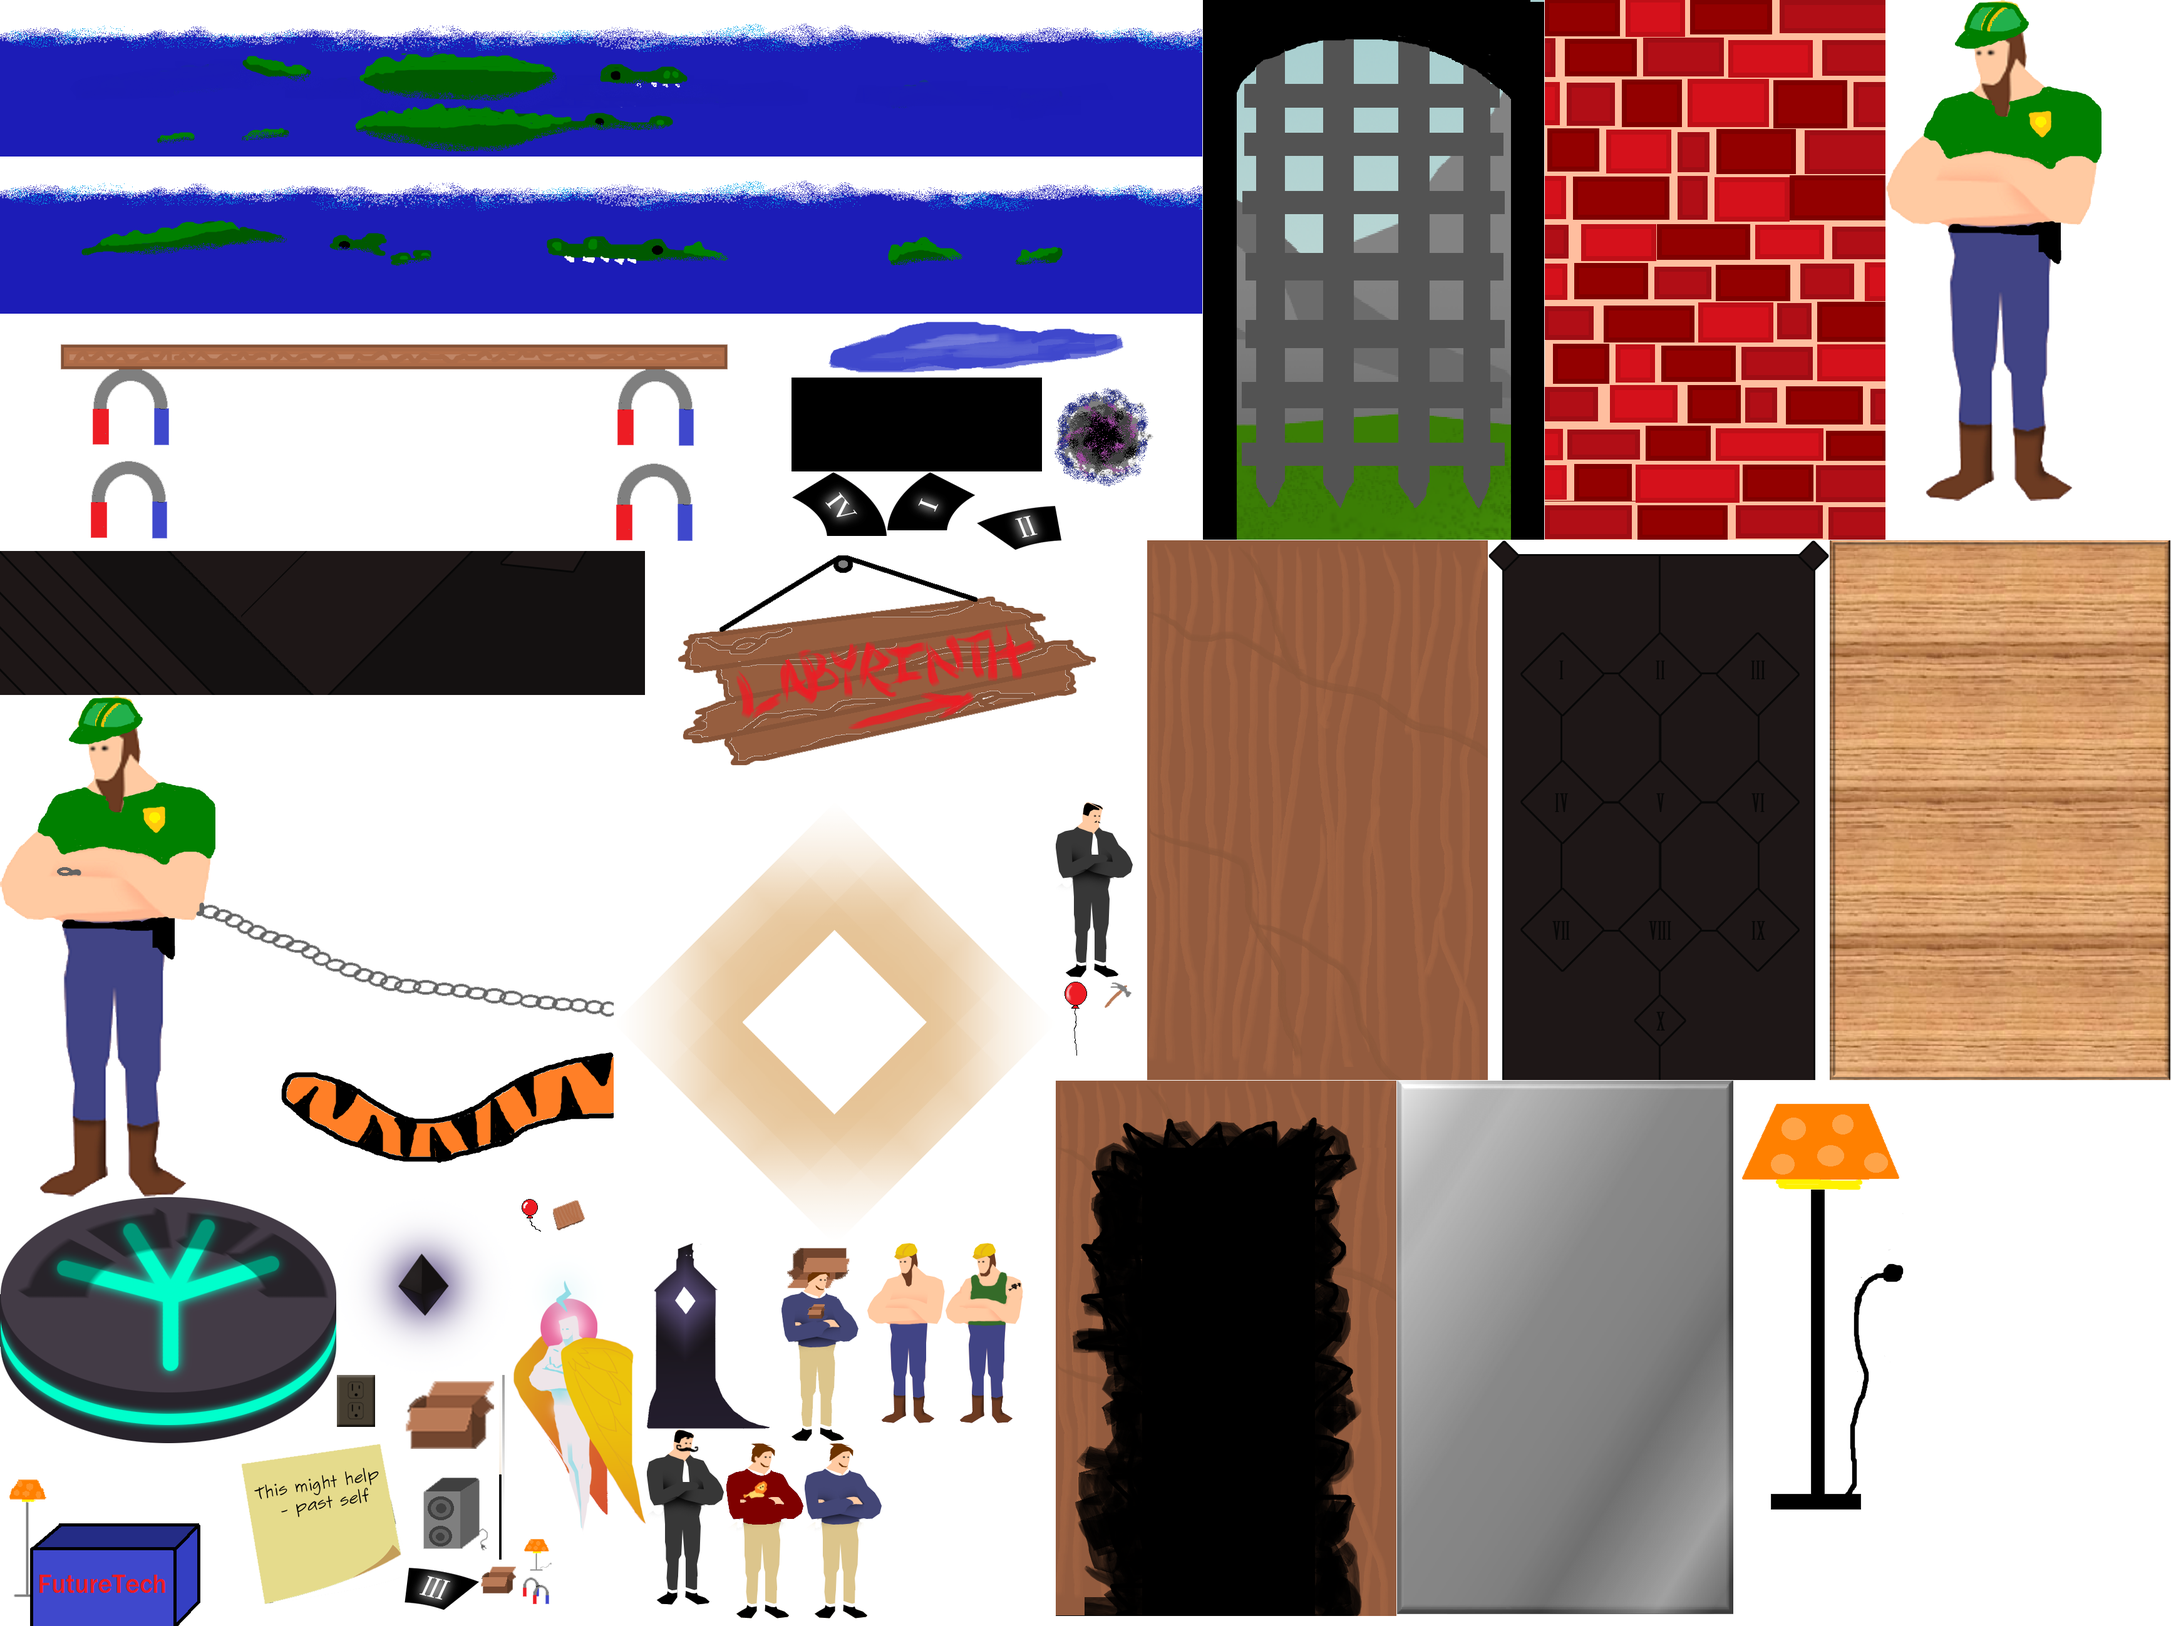
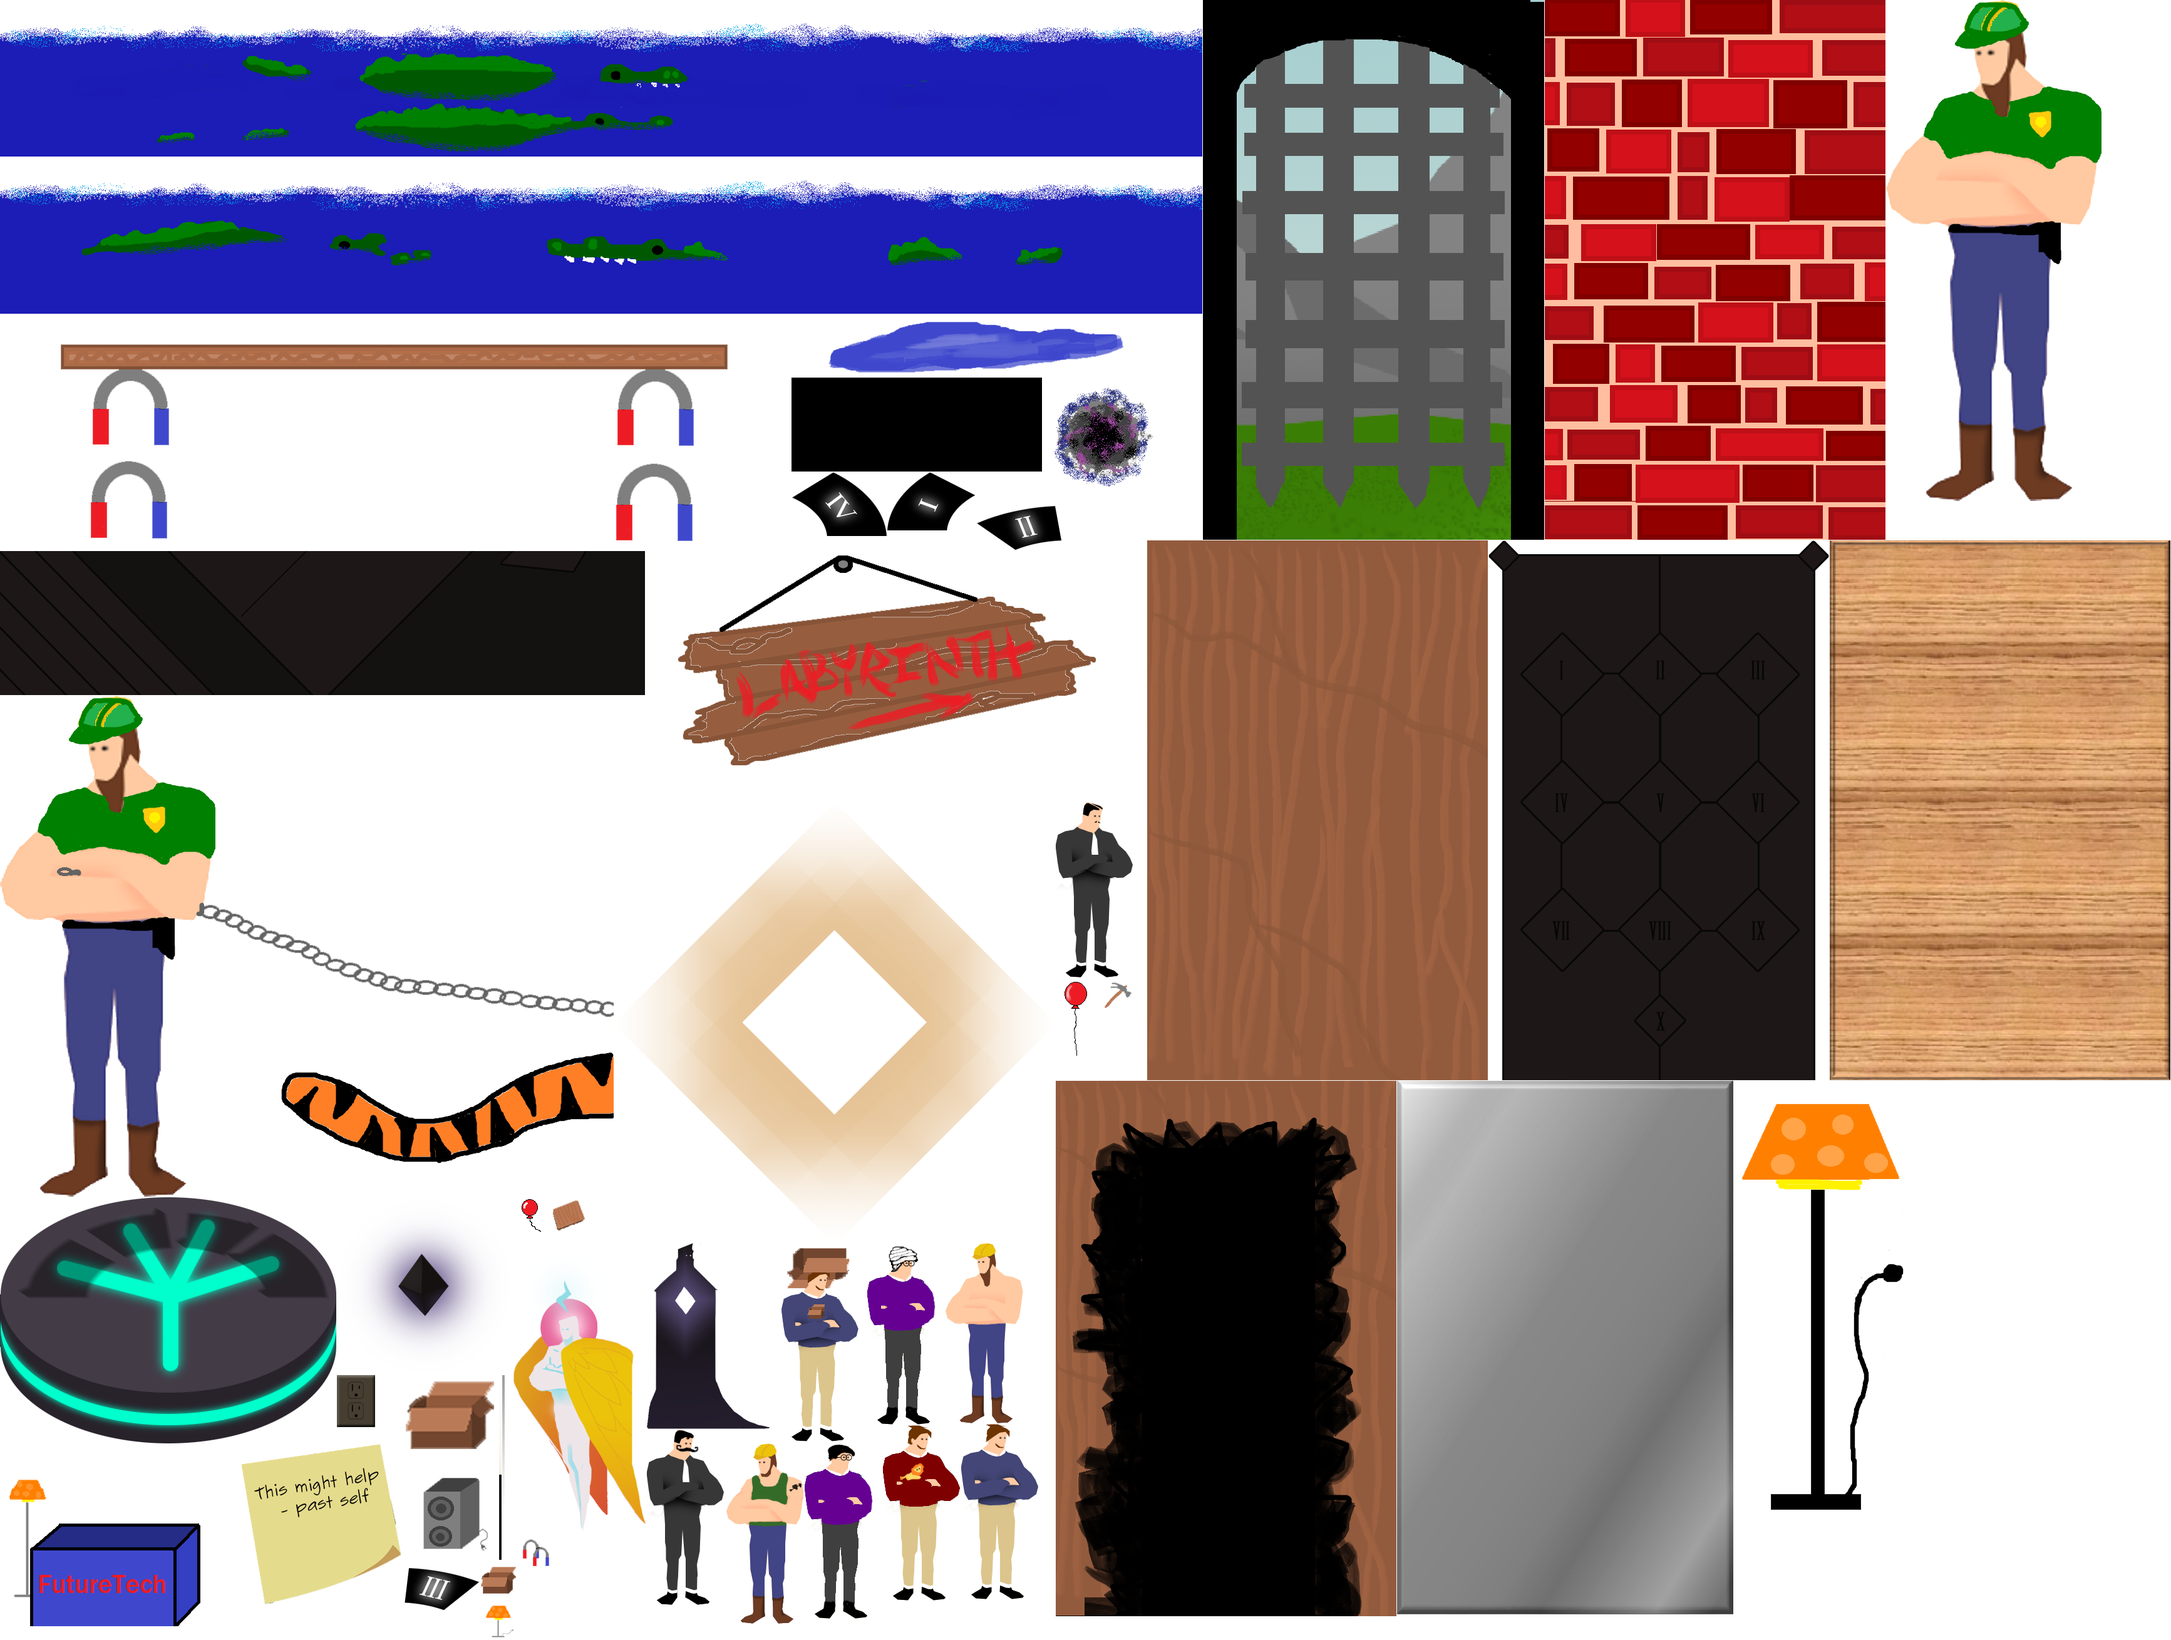
Added Wall guy's cousin, Peter.

diff --git a/index.bundle.js b/index.bundle.js
@@ -44781,7 +44781,7 @@ module.exports=//GRAVITY_LIGHTER
 		{
 			"id": 36,
 			"speaker": "johnson15",
-			"text": "I don't have the time to do both the door and the labyrinth. So, I was thinking I'd have my cousin do one for me.",
+			"text": "I don't have the time to do both the door and the labyrinth. So, I was thinking I'd have my cousin, Peter, do one for me.",
 			"responses":[
 				{
 					"text": "Your cousin?",
@@ -44811,12 +44811,12 @@ module.exports=//GRAVITY_LIGHTER
 			"text": "Any toddler could get through his systems.",
 			"responses":[
 				{
-					"text": "What about the first cousin?",
+					"text": "What about, Peter, the first cousin?",
 					"nextNodeId": 39,
 					"globalIsFalse": "BOX_IN_WORMHOLE"
 				},
 			    { 
-					"text": "What about the first cousin?",
+					"text": "What about, Peter, the first cousin?",
 					"nextNodeId": 43,
 					"globalIsTrue": "BOX_IN_WORMHOLE"
 				},
@@ -44864,7 +44864,7 @@ module.exports=//GRAVITY_LIGHTER
 		{
 			"id": 43,
 			"speaker": "johnson15",
-			"text": "Well, funny thing. The other day, this random cardboard box came out of nowhere and smacked him on the head. I worry he'll be like my other cousin, but I just don't have the time to make both security systems.",
+			"text": "Well, funny thing. The other day, this random cardboard box came out of nowhere and smacked Peter on the head. I worry he'll be like my other cousin, but I just don't have the time to make both security systems.",
 			"responses":[
 				{
 					"text": "I'm sure he'll be alright.",
@@ -44917,7 +44917,7 @@ module.exports=//GRAVITY_LIGHTER
 			"text": "The labyrinth. It's going to be a complicated underwater maze. Hopefully, no one can get throught it.",
 			"responses":[
 				{
-					"text": "Tell me about this cousin.",
+					"text": "Tell me about this cousin, Peter.",
 					"nextNodeId": 56
 				},
 			]
@@ -44928,7 +44928,7 @@ module.exports=//GRAVITY_LIGHTER
 			"text": "The door. It's a sturdy door run with the city's electricity. Hopefully, it will have a really good combination too.",
 			"responses":[
 				{
-					"text": "Tell me about this cousin.",
+					"text": "Tell me about this cousin, Peter",
 					"nextNodeId": 56
 				}
 			]
@@ -45043,7 +45043,7 @@ module.exports=//GRAVITY_LIGHTER
 		{
 			"id": 56,
 			"speaker": "johnson15",
-			"text": "Well, he's usually a good designer, but the other day, this random cardboard box came out of nowhere and smacked him on the head. I worry he'll be like my other dumb cousin, but I just don't have the time to make both security systems.",
+			"text": "Well, he's usually a good designer, but the other day, this random cardboard box came out of nowhere and smacked Peter on the head. I worry he'll be like my other dumb cousin, but I just don't have the time to make both security systems.",
 			"responses":[
 				{
 					"text": "I'm sure he'll be alright.",
@@ -46534,6 +46534,81 @@ InfoBox.info =
             },
         ]
     },
+    cousin: 
+    { 
+        cycle: 0,
+        data:
+        [
+            {
+                text: "I am Peter Johnson, Angel Johnson XV's cousin.",
+                isFalse: ["BOX_IN_WORMHOLE"]
+            },
+            {
+                text: "Yes, I know we don't look alike.",
+                isFalse: ["BOX_IN_WORMHOLE"]
+            },
+            {
+                text: "I help make his security systems.",
+                isFalse: ["BOX_IN_WORMHOLE"]
+            },
+            {
+                text: "Here is a math shortcut for calculating squares: x<sup>2</sup> = (x - a)(x + a) + a<sup>2</sup> for any value of \"a\".",
+                isFalse: ["BOX_IN_WORMHOLE"]
+            },
+            {
+                text: "So, for example, 55<sup>2</sup> = (55 -5)(55 + 5) + 25 = (50)(60) + 25 = 3025. Easy, huh?",
+                isFalse: ["BOX_IN_WORMHOLE"]
+            },
+            {
+                text: "Euler's Identity, e<sup>i&#960</sup> + 1 = 0, is a special case of Euler's Formula.",
+                isFalse: ["BOX_IN_WORMHOLE"]
+            },
+            {
+                text: "Want to hear a joke?",
+                isFalse: ["BOX_IN_WORMHOLE"]
+            },
+            {
+                text: "One day, Heisenberg was driving down the freeway and got pulled over by a cop.",
+                isFalse: ["BOX_IN_WORMHOLE"]
+            },
+            {
+                text: "The cop walked up to Heisenberg and asked, \"Do you know how fast you were going?\"",
+                isFalse: ["BOX_IN_WORMHOLE"]
+            },
+            {
+                text: "Heisenberg replied, \"No, but I know exactly where I am.\"",
+                isFalse: ["BOX_IN_WORMHOLE"]
+            },
+            {
+                text: "The puzzled cop shook his head, and said, \"You were going 80mph.\"",
+                isFalse: ["BOX_IN_WORMHOLE"]
+            },
+            {
+                text: "\"Great,\" said Heisenberg, \"Now, I'm lost.\"",
+                isFalse: ["BOX_IN_WORMHOLE"]
+            },
+            {
+                text: "Me is Peter, cousin of Johnson.",
+                isTrue: ["BOX_IN_WORMHOLE"]
+            },
+            {
+                text: "He want help wit tings.",
+                isTrue: ["BOX_IN_WORMHOLE"]
+            },
+            {
+                text: "I is help him.",
+                isTrue: ["BOX_IN_WORMHOLE"]
+            },
+            {
+                text: "1 + 1 = 4.",
+                isTrue: ["BOX_IN_WORMHOLE"]
+            },
+            {
+                text: "The moon landing was faked.",
+                isTrue: ["BOX_IN_WORMHOLE"]
+            }
+        ]
+    },
     wormhole: 
     {
         cycle: 0,
@@ -47530,6 +47605,18 @@ ConstructionScene.prototype.added = function()
 		action: "triggerConversation",
 		target: require("../data/johnson_xv_conversation.json")
 	})
+	var cousin = this.createClickableSprite("cousin_sprite", 400, 300);
+	cousin.addAction({
+		action: "showInfoBox",
+		target: "cousin"
+	})
+	cousin.addFalse("BOX_IN_WORMHOLE");
+	var cousin_hurt = this.createClickableSprite("cousin_bandage", 400, 300);
+	cousin_hurt.addAction({
+		action: "showInfoBox",
+		target: "cousin"
+	})
+	cousin_hurt.addTrue("BOX_IN_WORMHOLE");
 	var humaneGuy = this.createClickableSprite("humane_guy_sprite", -500, 300);
 	humaneGuy.addAction({
 		action: "triggerConversation",
@@ -48793,21 +48880,23 @@ module.exports =
 {
 	url: "media/general_atlas.png",
 	width: 3467,
-	height: 2597,
+	height: 2619,
 	filter: THREE.LinearFilter,
 	sprites:
 	{
 	"balloon":[820,1912,60,60],
 	"balloonLarge":[1686,1562,72,128],
 	"brickwall":[2467,0,544,862],
-	"builder_guy":[1385,1985,124,288],
-	"builder_guy2":[1510,1985,124,288],
+	"builder_guy":[1510,1985,124,288],
+	"builder_guy2":[1160,2305,124,288],
 	"cardboard":[881,1912,60,60],
 	"cardboard_preacher":[1230,1985,154,319],
 	"cardboardbox":[767,2498,60,60],
 	"cardboardboxlarge":[646,2196,150,150],
 	"cardboardWall":[1832,863,544,862],
 	"cardboardWallBroken":[1686,1726,544,855],
+	"cousin_bandage":[1385,1985,124,290],
+	"cousin_sprite":[1285,2305,124,280],
 	"crystal":[538,1912,281,283],
 	"empty_pit":[0,880,1030,230],
 	"grad_circle":[1697,804,64,64],
@@ -48817,15 +48906,15 @@ module.exports =
 	"hammer":[1759,1562,60,60],
 	"heaven_angel":[820,1985,212,467],
 	"heaven_player":[1033,1985,196,297],
-	"humane_guy_sprite":[1160,2305,124,280],
+	"humane_guy_sprite":[1410,2276,124,280],
 	"keydoor":[2377,863,544,862],
 	"labyrinth_sign":[1031,880,800,400],
-	"lamp":[828,2453,60,60],
+	"lamp":[767,2559,60,60],
 	"lamplarge":[2769,1726,300,734],
-	"magnets":[828,2514,60,60],
+	"magnets":[828,2453,60,60],
 	"moat_full":[0,0,1920,250],
 	"moat_hungry":[0,251,1920,250],
-	"normal_guy_sprite":[1285,2305,124,280],
+	"normal_guy_sprite":[1535,2274,124,280],
 	"outlet":[538,2196,61,83],
 	"pit_bridge":[0,502,1263,226],
 	"pit_edge":[1264,603,400,150],

diff --git a/src/game/infobox.js b/src/game/infobox.js
@@ -153,6 +153,81 @@ InfoBox.info =
             },
         ]
     },
+    cousin: 
+    { 
+        cycle: 0,
+        data:
+        [
+            {
+                text: "I am Peter Johnson, Angel Johnson XV's cousin.",
+                isFalse: ["BOX_IN_WORMHOLE"]
+            },
+            {
+                text: "Yes, I know we don't look alike.",
+                isFalse: ["BOX_IN_WORMHOLE"]
+            },
+            {
+                text: "I help make his security systems.",
+                isFalse: ["BOX_IN_WORMHOLE"]
+            },
+            {
+                text: "Here is a math shortcut for calculating squares: x<sup>2</sup> = (x - a)(x + a) + a<sup>2</sup> for any value of \"a\".",
+                isFalse: ["BOX_IN_WORMHOLE"]
+            },
+            {
+                text: "So, for example, 55<sup>2</sup> = (55 -5)(55 + 5) + 25 = (50)(60) + 25 = 3025. Easy, huh?",
+                isFalse: ["BOX_IN_WORMHOLE"]
+            },
+            {
+                text: "Euler's Identity, e<sup>i&#960</sup> + 1 = 0, is a special case of Euler's Formula.",
+                isFalse: ["BOX_IN_WORMHOLE"]
+            },
+            {
+                text: "Want to hear a joke?",
+                isFalse: ["BOX_IN_WORMHOLE"]
+            },
+            {
+                text: "One day, Heisenberg was driving down the freeway and got pulled over by a cop.",
+                isFalse: ["BOX_IN_WORMHOLE"]
+            },
+            {
+                text: "The cop walked up to Heisenberg and asked, \"Do you know how fast you were going?\"",
+                isFalse: ["BOX_IN_WORMHOLE"]
+            },
+            {
+                text: "Heisenberg replied, \"No, but I know exactly where I am.\"",
+                isFalse: ["BOX_IN_WORMHOLE"]
+            },
+            {
+                text: "The puzzled cop shook his head, and said, \"You were going 80mph.\"",
+                isFalse: ["BOX_IN_WORMHOLE"]
+            },
+            {
+                text: "\"Great,\" said Heisenberg, \"Now, I'm lost.\"",
+                isFalse: ["BOX_IN_WORMHOLE"]
+            },
+            {
+                text: "Me is Peter, cousin of Johnson.",
+                isTrue: ["BOX_IN_WORMHOLE"]
+            },
+            {
+                text: "He want help wit tings.",
+                isTrue: ["BOX_IN_WORMHOLE"]
+            },
+            {
+                text: "I is help him.",
+                isTrue: ["BOX_IN_WORMHOLE"]
+            },
+            {
+                text: "1 + 1 = 4.",
+                isTrue: ["BOX_IN_WORMHOLE"]
+            },
+            {
+                text: "The moon landing was faked.",
+                isTrue: ["BOX_IN_WORMHOLE"]
+            }
+        ]
+    },
     wormhole: 
     {
         cycle: 0,

diff --git a/src/sdk/atlases/index.js b/src/sdk/atlases/index.js
@@ -10,21 +10,23 @@ module.exports =
 {
 	url: "media/general_atlas.png",
 	width: 3467,
-	height: 2597,
+	height: 2619,
 	filter: THREE.LinearFilter,
 	sprites:
 	{
 	"balloon":[820,1912,60,60],
 	"balloonLarge":[1686,1562,72,128],
 	"brickwall":[2467,0,544,862],
-	"builder_guy":[1385,1985,124,288],
-	"builder_guy2":[1510,1985,124,288],
+	"builder_guy":[1510,1985,124,288],
+	"builder_guy2":[1160,2305,124,288],
 	"cardboard":[881,1912,60,60],
 	"cardboard_preacher":[1230,1985,154,319],
 	"cardboardbox":[767,2498,60,60],
 	"cardboardboxlarge":[646,2196,150,150],
 	"cardboardWall":[1832,863,544,862],
 	"cardboardWallBroken":[1686,1726,544,855],
+	"cousin_bandage":[1385,1985,124,290],
+	"cousin_sprite":[1285,2305,124,280],
 	"crystal":[538,1912,281,283],
 	"empty_pit":[0,880,1030,230],
 	"grad_circle":[1697,804,64,64],
@@ -34,15 +36,15 @@ module.exports =
 	"hammer":[1759,1562,60,60],
 	"heaven_angel":[820,1985,212,467],
 	"heaven_player":[1033,1985,196,297],
-	"humane_guy_sprite":[1160,2305,124,280],
+	"humane_guy_sprite":[1410,2276,124,280],
 	"keydoor":[2377,863,544,862],
 	"labyrinth_sign":[1031,880,800,400],
-	"lamp":[828,2453,60,60],
+	"lamp":[767,2559,60,60],
 	"lamplarge":[2769,1726,300,734],
-	"magnets":[828,2514,60,60],
+	"magnets":[828,2453,60,60],
 	"moat_full":[0,0,1920,250],
 	"moat_hungry":[0,251,1920,250],
-	"normal_guy_sprite":[1285,2305,124,280],
+	"normal_guy_sprite":[1535,2274,124,280],
 	"outlet":[538,2196,61,83],
 	"pit_bridge":[0,502,1263,226],
 	"pit_edge":[1264,603,400,150],

diff --git a/src/game/scene_past_construction.js b/src/game/scene_past_construction.js
@@ -22,6 +22,18 @@ ConstructionScene.prototype.added = function()
 		action: "triggerConversation",
 		target: require("../data/johnson_xv_conversation.json")
 	})
+	var cousin = this.createClickableSprite("cousin_sprite", 400, 300);
+	cousin.addAction({
+		action: "showInfoBox",
+		target: "cousin"
+	})
+	cousin.addFalse("BOX_IN_WORMHOLE");
+	var cousin_hurt = this.createClickableSprite("cousin_bandage", 400, 300);
+	cousin_hurt.addAction({
+		action: "showInfoBox",
+		target: "cousin"
+	})
+	cousin_hurt.addTrue("BOX_IN_WORMHOLE");
 	var humaneGuy = this.createClickableSprite("humane_guy_sprite", -500, 300);
 	humaneGuy.addAction({
 		action: "triggerConversation",
